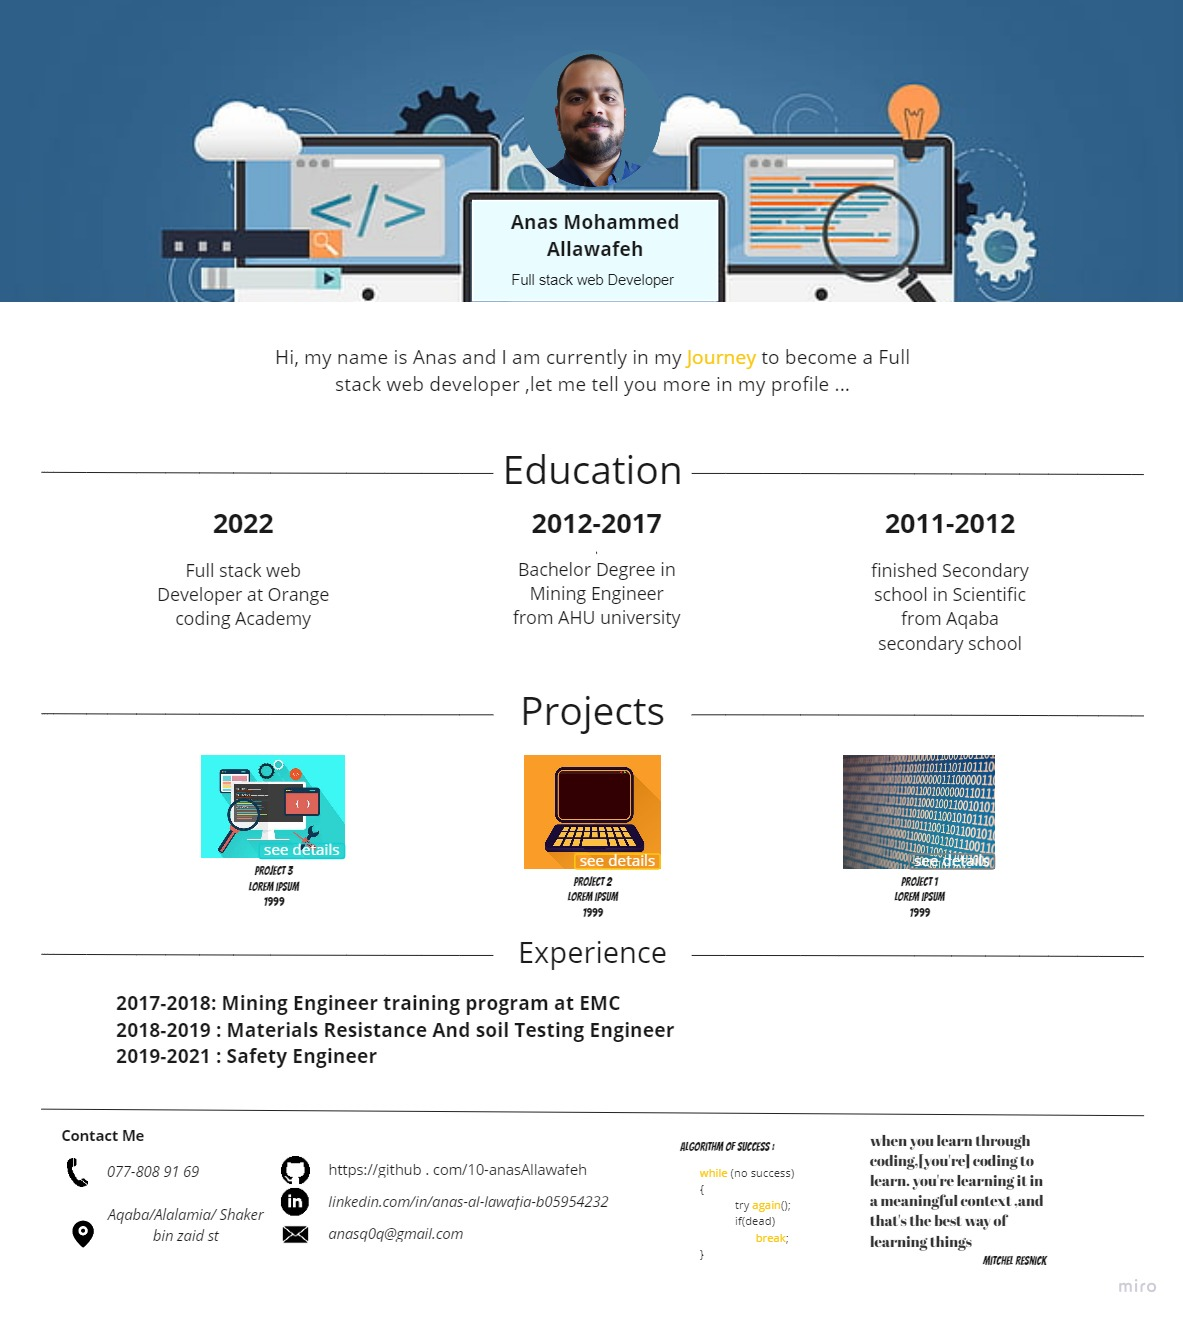
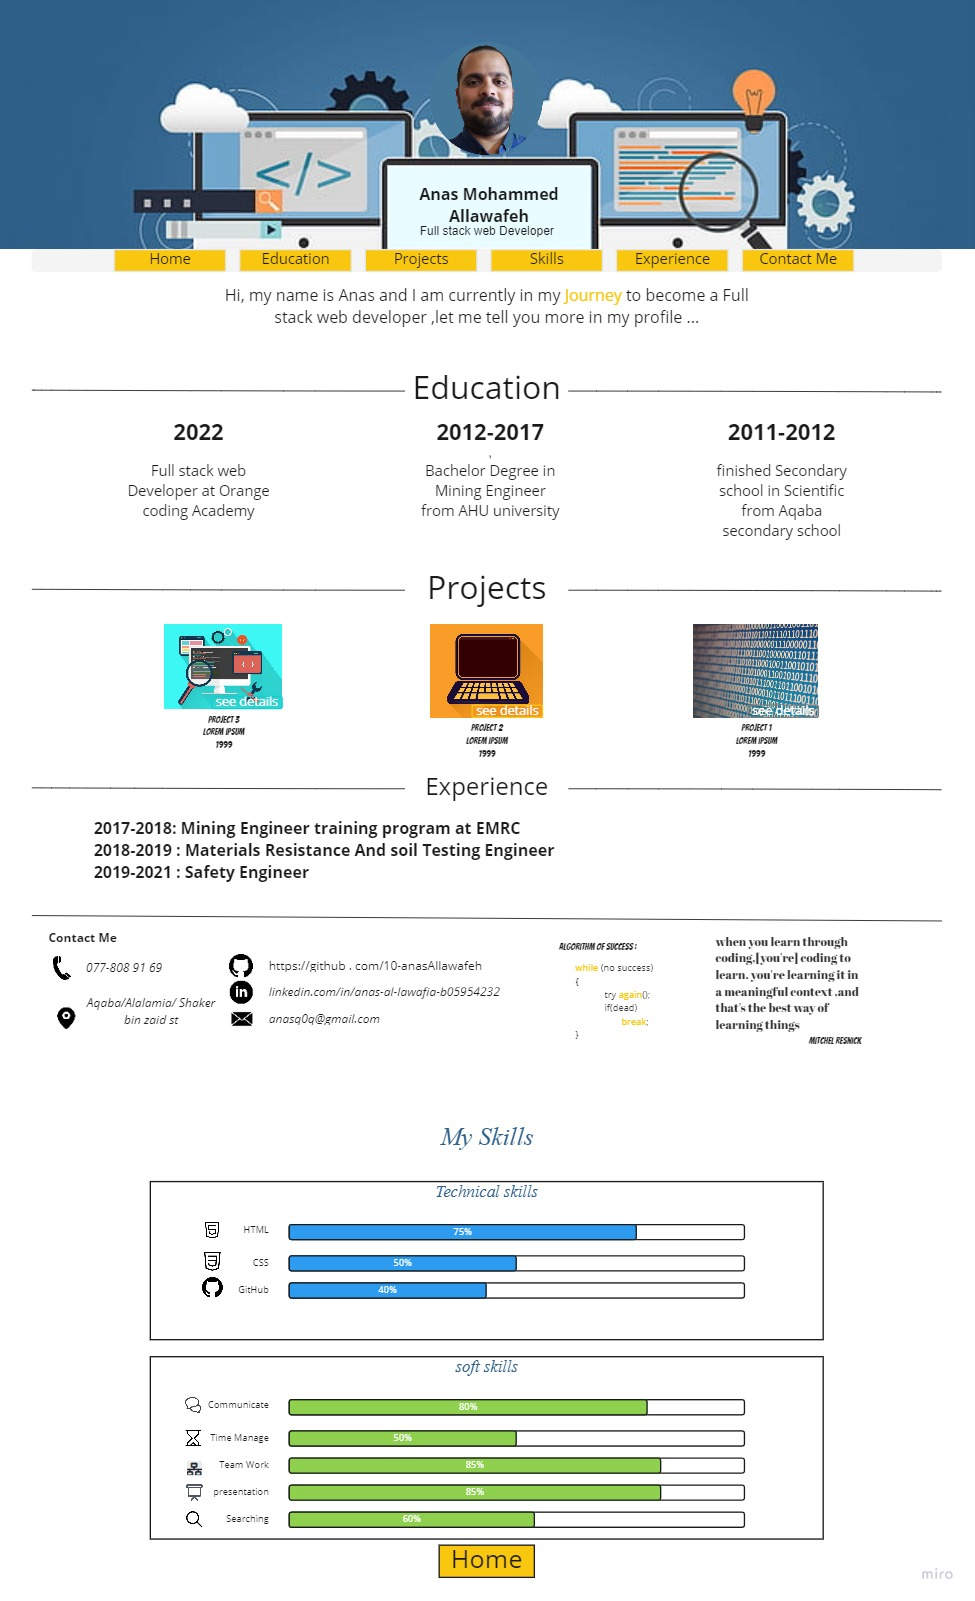
mockup wireframe and navbar

Changed region(s): [[0.0, 0.0311, 1.0, 0.9947], [0.7077, 0.373, 0.8615, 0.4973], [0.9538, 0.9636, 0.9846, 0.9947]]

diff --git a/skill page/index.html b/skill page/index.html
@@ -1,0 +1,111 @@
+<!DOCTYPE html>
+<html lang="en">
+<head>
+    <meta charset="UTF-8">
+    <meta http-equiv="X-UA-Compatible" content="IE=edge">
+    <meta name="viewport" content="width=device-width, initial-scale=1.0">
+    <link rel="stylesheet" href="../portfolio/css/bootstrap.css">
+    <link href="https://fonts.googleapis.com/icon?family=Material+Icons"
+      rel="stylesheet">
+      <script src="https://kit.fontawesome.com/8fdd3e44f7.js" crossorigin="anonymous"></script>
+    <link rel="stylesheet" href="./bootstrapskill copy.css">
+    <link rel="preconnect" href="https://fonts.googleapis.com">
+<link rel="preconnect" href="https://fonts.gstatic.com" crossorigin>
+<link href="https://fonts.googleapis.com/css2?family=Bangers&display=swap" rel="stylesheet">
+    <title>My Skills</title>
+</head>
+<body>
+
+    
+
+    <p>My Skills</p>
+    <div class="container-fluid a mb-5">
+        <p>Technical Skills</p> <br>
+
+
+         <div class="progress">
+             <div class=""><i class="fa-brands fa-html5 fa-xl">HTML&nbsp;&nbsp;&nbsp;&nbsp;&nbsp;</i></div>
+             <div class="progress-bar progress-bar-striped" role="progressbar" style="width: 75%" aria-valuenow="10" aria-valuemin="0" aria-valuemax="100">75%</div>
+             </div>
+             <br>
+         <div class="progress">
+            <div class=""><i class="fa-brands fa-css3-alt fa-xl">CSS&nbsp;&nbsp;&nbsp;&nbsp;&nbsp;&nbsp;&nbsp;&nbsp;&nbsp;</i></div>
+            <div class="progress-bar progress-bar-striped" role="progressbar" style="width: 50%" aria-valuenow="10" aria-valuemin="0" aria-valuemax="100">50%</div>
+        </div>
+            <br>
+         <div class="progress">
+            <div class=""><i class="fa-brands fa-github-alt fa-xl">GitHub&nbsp;&nbsp;&nbsp;</i></div>
+            <div class="progress-bar progress-bar-striped" role="progressbar" style="width: 40%" aria-valuenow="10" aria-valuemin="0" aria-valuemax="100">40%</div>
+         </div>
+         <br><br>
+    </div>
+         
+         
+        
+
+
+    <div class="container-fluid a mx-auto">
+        <p>Soft Skills</p> <br>
+
+
+        
+        <div class="progress mx-auto">
+            <div class=""><i class="fa-solid fa-comments fa-lg">Communicate &nbsp;&nbsp;</i></div>
+            <div class="progress-bar progress-bar-striped bg-success" role="progressbar" style="width: 80%" aria-valuenow="25" aria-valuemin="0" aria-valuemax="100">80%</div>
+        </div>
+        <br>
+        <div class="progress">
+            <div class=""><i class="fa-solid fa-hourglass fa-lg">Time Manege&nbsp;&nbsp;&nbsp;&nbsp;&nbsp;&nbsp;&nbsp;&nbsp;</i></div><br>
+            <div class="progress-bar progress-bar-striped bg-success" role="progressbar" style="width: 50%" aria-valuenow="25" aria-valuemin="0" aria-valuemax="100">50%</div>
+        </div>
+        <br>
+        <div class="progress">
+            <div class=""><i class="fa-solid fa-network-wired fa-lg">Team Work&nbsp;&nbsp;&nbsp;&nbsp;&nbsp;&nbsp;&nbsp;&nbsp;&nbsp;&nbsp;</i></div><br>
+            <div class="progress-bar progress-bar-striped bg-success" role="progressbar" style="width: 85%" aria-valuenow="25" aria-valuemin="0" aria-valuemax="100">85%</div>
+        </div>
+        <br>
+        <div class="progress">
+            <div class=""><i class="fa-solid fa-chalkboard-user fa-lg">Presentation&nbsp;&nbsp;</i></div><br>
+            <div class="progress-bar progress-bar-striped bg-success" role="progressbar" style="width: 85%" aria-valuenow="25" aria-valuemin="0" aria-valuemax="100">85%</div>
+        </div>
+        <br>
+        <div class="progress">
+            <div class=""><i class="fa-solid fa-magnifying-glass fa-lg">Searching&nbsp;&nbsp;&nbsp;&nbsp;&nbsp;&nbsp;&nbsp;&nbsp;&nbsp;&nbsp;&nbsp;</i></div><br>
+            <div class="progress-bar progress-bar-striped bg-success" role="progressbar" style="width: 60%" aria-valuenow="25" aria-valuemin="0" aria-valuemax="100">60%</div>
+        </div>
+        <br><br>
+    </div> <br>
+
+    <div class="container-fluid diva d-flex justify-content-center"><a href="../index.html" class="badge badge-warning "><h3>Home</h3></a></div>
+
+
+
+
+
+    <div class="container-fluid">
+
+        <p>Job Tracking Form</p>
+
+        <form>
+            <div class="form-group">
+                <label for="job">Job Title</label>
+                <input type="text" class="form-control" placeholder="Job Title" id="job"><br>
+                <label for="company">Company name</label>
+                <input type="text" class="form-control" placeholder="Company Name" id="company"><br>
+                <label for="place">City :</label>
+                <input type="radio" class="form-control" id="place"> Aqaba
+                <label for="date">Job Intrveiw Date</label>
+                <input type="date" class="form-control">
+                <label for="note">Note</label>
+                <input type="text" class="form-control" placeholder="Job Intreveiw Note" id="note">
+                <button class="btn btn-bg-succes "><h2>Submit</h2></button>
+                <button class="btn btn-bg-succes"><h2>Reset</h2></button>
+
+            </div>
+        </form>
+
+    
+
+    </div>
+</body>
+</html>

diff --git a/index.html b/index.html
@@ -15,9 +15,9 @@
     <title>Portfolio Project</title>
 </head>
 <body>
-
     
-    <div class="jumbotron d-flex justify-content-center">
+    
+    <div class="jumbotron d-flex justify-content-center" id="home">
         
             <figure class="figure">
                 <img class="img-figure rounded-circle w-50 img-thumbnail" src="./portfolio/profile.png" alt="profile picture">
@@ -28,13 +28,26 @@
             </figure>
     </div>
 
+        <nav class="navbar navbar-light bg-light d-flex justify-content-center sticky-top">
+        <form class="form-inline">
+            <a href="#home" class="badge badge-warning"><h5>Home</h5></a> &nbsp;&nbsp;&nbsp;
+            <a href="#education" class="badge badge-warning"><h5>Education</h5></a> &nbsp;&nbsp;&nbsp;
+            <a href="#project" class="badge badge-warning"><h5>Projects</h5></a>&nbsp;&nbsp;&nbsp;
+            <a href="./skill page/index.html" class="badge badge-warning"><h5>Skills</h5></a> &nbsp;&nbsp;&nbsp;
+            <a href="#experience" class="badge badge-warning"><h5>Experience</h5></a>&nbsp;&nbsp;&nbsp;
+            <a href="#contact" class="badge badge-warning"><h5>Contact Me</h5></a>
+          
+        </form>
+      </nav>
+
+
     <div class="container mx-auto ">
         <h2 class="text-center">Hi, my name is Anas and I am currently in my <span class="or">Journey</span> to become a Full stack web developer ,let me tell you more in my profile ...</h2>
     </div>
 
     <div class="container mx-auto ">
         <br><br><br><br>
-        <h1 class="text-center bg-ligt mb-5"><span class="ta">___________________</span><span class="tb">________   </span>Education<span class="tb">   ________</span><span class="ta">___________________</span></h1>
+        <h1 class="text-center bg-ligt mb-5"><span class="ta" id="education">___________________</span><span class="tb">________   </span>Education<span class="tb">   ________</span><span class="ta">___________________</span></h1>
         <table class="container text-center mx-auto">
             <thead>
                 <td class="col-4"><p>2022-present</p></td>
@@ -60,7 +73,7 @@
     
     <div class="container mx-auto ">
         <br><br><br><br>
-        <h1 class="text-center bg-ligt mb-5"><span class="ta">___________________</span><span class="tb">________   </span>Projects<span class="tb">   ________</span><span class="ta">___________________</span></h1>
+        <h1 class="text-center bg-ligt mb-5" id="project"><span class="ta">___________________</span><span class="tb">________   </span>Projects<span class="tb">   ________</span><span class="ta">___________________</span></h1>
     
      <div class="row d-flex justify-content-around fi">
         <div class="card w-25 col-3">
@@ -100,7 +113,7 @@
 
     <div class="container mx-auto ">
         <br><br><br><br>
-        <h1 class="text-center bg-ligt mb-5"><span class="ta">__________________</span><span class="tb">________   </span>Experience<span class="tb">   ________</span><span class="ta">___________________</span></h1>
+        <h1 class="text-center bg-ligt mb-5" id="experience"><span class="ta">__________________</span><span class="tb">________   </span>Experience<span class="tb">   ________</span><span class="ta">___________________</span></h1>
 
         <dl>
             <dt><p>2017-2018(6 months): Mining Engineer training program at Energy & Minerals Regulatory Comission (EMrC)</p>
@@ -123,7 +136,7 @@
 
 
     <div class=" fi fii">
-            <h3>Contact Me</h3> <br>
+            <h3 id="contact">Contact Me</h3> <br>
                <a><span class="material-icons">
                 phone
                 </span>077-808 91 69</a> <br>

diff --git a/skill page/bootstrapskill copy.css b/skill page/bootstrapskill copy.css
@@ -1,0 +1,36 @@
+body{
+    
+    margin: 1% 5%;
+}
+
+div.container-fluid.a{
+    border: 5px solid #2f6089;
+}
+a{
+    color: #2f6089;
+    
+    
+}
+
+
+p{
+    text-align: center;
+    color:#2f6089;
+    
+    font-size: 40px;
+    font-weight: bolder ;
+    font-style: oblique;
+    font-family: 'Times New Roman', Times, serif;
+}
+div p{
+    color: #2f6089;
+    
+    font-size: 30px;
+    font-weight: bolder ;
+    font-style: oblique;
+    font-family:'Times New Roman', Times, serif;
+
+}
+i{
+    background-color: white;
+}

diff --git a/portfolio/bootstrap copy.css b/portfolio/bootstrap copy.css
@@ -136,6 +136,10 @@ a.p1{
     border-color: grey;
 }
 
+nav.navbar{
+    margin-top: -32px;
+}
+
 
 
 
@@ -229,14 +233,16 @@ a.p1{
 
     div.jumbotron{
 
-        margin-right: -12%;
+        margin-right: 0%;
     }
+
+
 
     .figure-caption{ 
         
-        margin-bottom:48%;
-        margin-left:0%;
-        font-size:xx-small;
+        margin-bottom:46%;
+        margin-left:-1%;
+        font-size:8px;
 
     }
 

diff --git a/README.md b/README.md
@@ -14,22 +14,24 @@ The project is a portfolio page represent my Personal Curriculum Vita
 
 the page is devided as below :
 
-* Header :- contains a picture , Name ,the Job and small paragraph about me
-* Education :- here you can find what I have studied over the years
-* Projects :- quick view for my previous Projects (fake data)
+* Header :- contains a picture , Name ,Job title and small paragraph about me.
+* Education :- The Academic paths I have studied over the years.
+* Projects :- quick view for my previous Projects (fake data).
 * Experience :- all the skills and knowldge I gained from my work Journey
-* Footer :- contact info plus some quotes that I like 
+* Footer :- contact info plus some quotes that I like .
 
 
 ## Design 
 
-the page is Designed according to the wireframe and Mockup style, wich are confirmed previously
+I used HTMl & CSS including Bootstrap, flex and UI for creating the WebPage.
+
+The page is Designed according to the wireframe and Mockup style, wich are confirmed previously.
 
 * A picture of the Wireframe 
-![Wireframe](./portfilo%20Resume%20wireframe.jpg)
+![Wireframe](./wireframe.jpg)
 
 * A picture of the Mockup
-![Mockup](./Mockup.jpg) 
+![Mockup](./mockup.jpg) 
 
 ## Project links
 
@@ -41,11 +43,11 @@ the page is Designed according to the wireframe and Mockup style, wich are confi
 
 ## Contact Info
 
-here are some of my social links
+here are some of my social links:
 * [Linked In](https://www.linkedin.com/in/anas-al-lawafia-b05954232)
 * [Git Hub](https://github.com/10-anasAllawafeh)
 * E-mail: anasq0q@gmail.com
 * Discord UserName: 10- Anas Allawafeh#2604
 
 
-*And That's It !!! don't hesitate to contact me any time you want :)*
+*And That's It !!! don't hesitate to contact me for more info :)*
